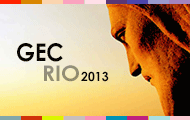
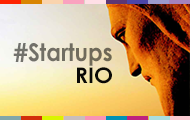
minor change

diff --git a/mailing.html b/mailing.html
@@ -29,8 +29,9 @@ description: HE:labs é uma empresa pioneira em desenvolvimento de sistemas web,
       <li>
         <img src="/images/mailing/cgc.png"/>
         <span>04/03/2013</span>
-        <h4>Lista de eventos que apoiamos e recomendamos!</h4>
-        <p>Fizemos uma lista compilada de eventos que apoiamos e recomendamos para os próximos meses. Falamos sobre o <a href="http://horaextra.org/">#horaextra</a>, <a href="http://riojs.org/">Rio.JS</a>, <a href="http://kolaborativa.com/">Kolaborativa</a>, <a href="http://www.agendatech.com.br/eventos/tecnologia/2013/encontro-ruby-on-rio">Ruby on Rio</a> e <a href="http://devinsampa.com.br/">Dev in Sampa</a></p>
+        <h4>Evento Sebrae Startup Rio</h4>
+        <p> O evento aproximará aceleradoras, investidoras e startups na sede da SEBRAE RJ. Falamos também do
+          <a href="http://gec2013.com"/>#Global Entrepreneurship 2013.</a></p>
         <br clear="all">
       </li>
       <li>
